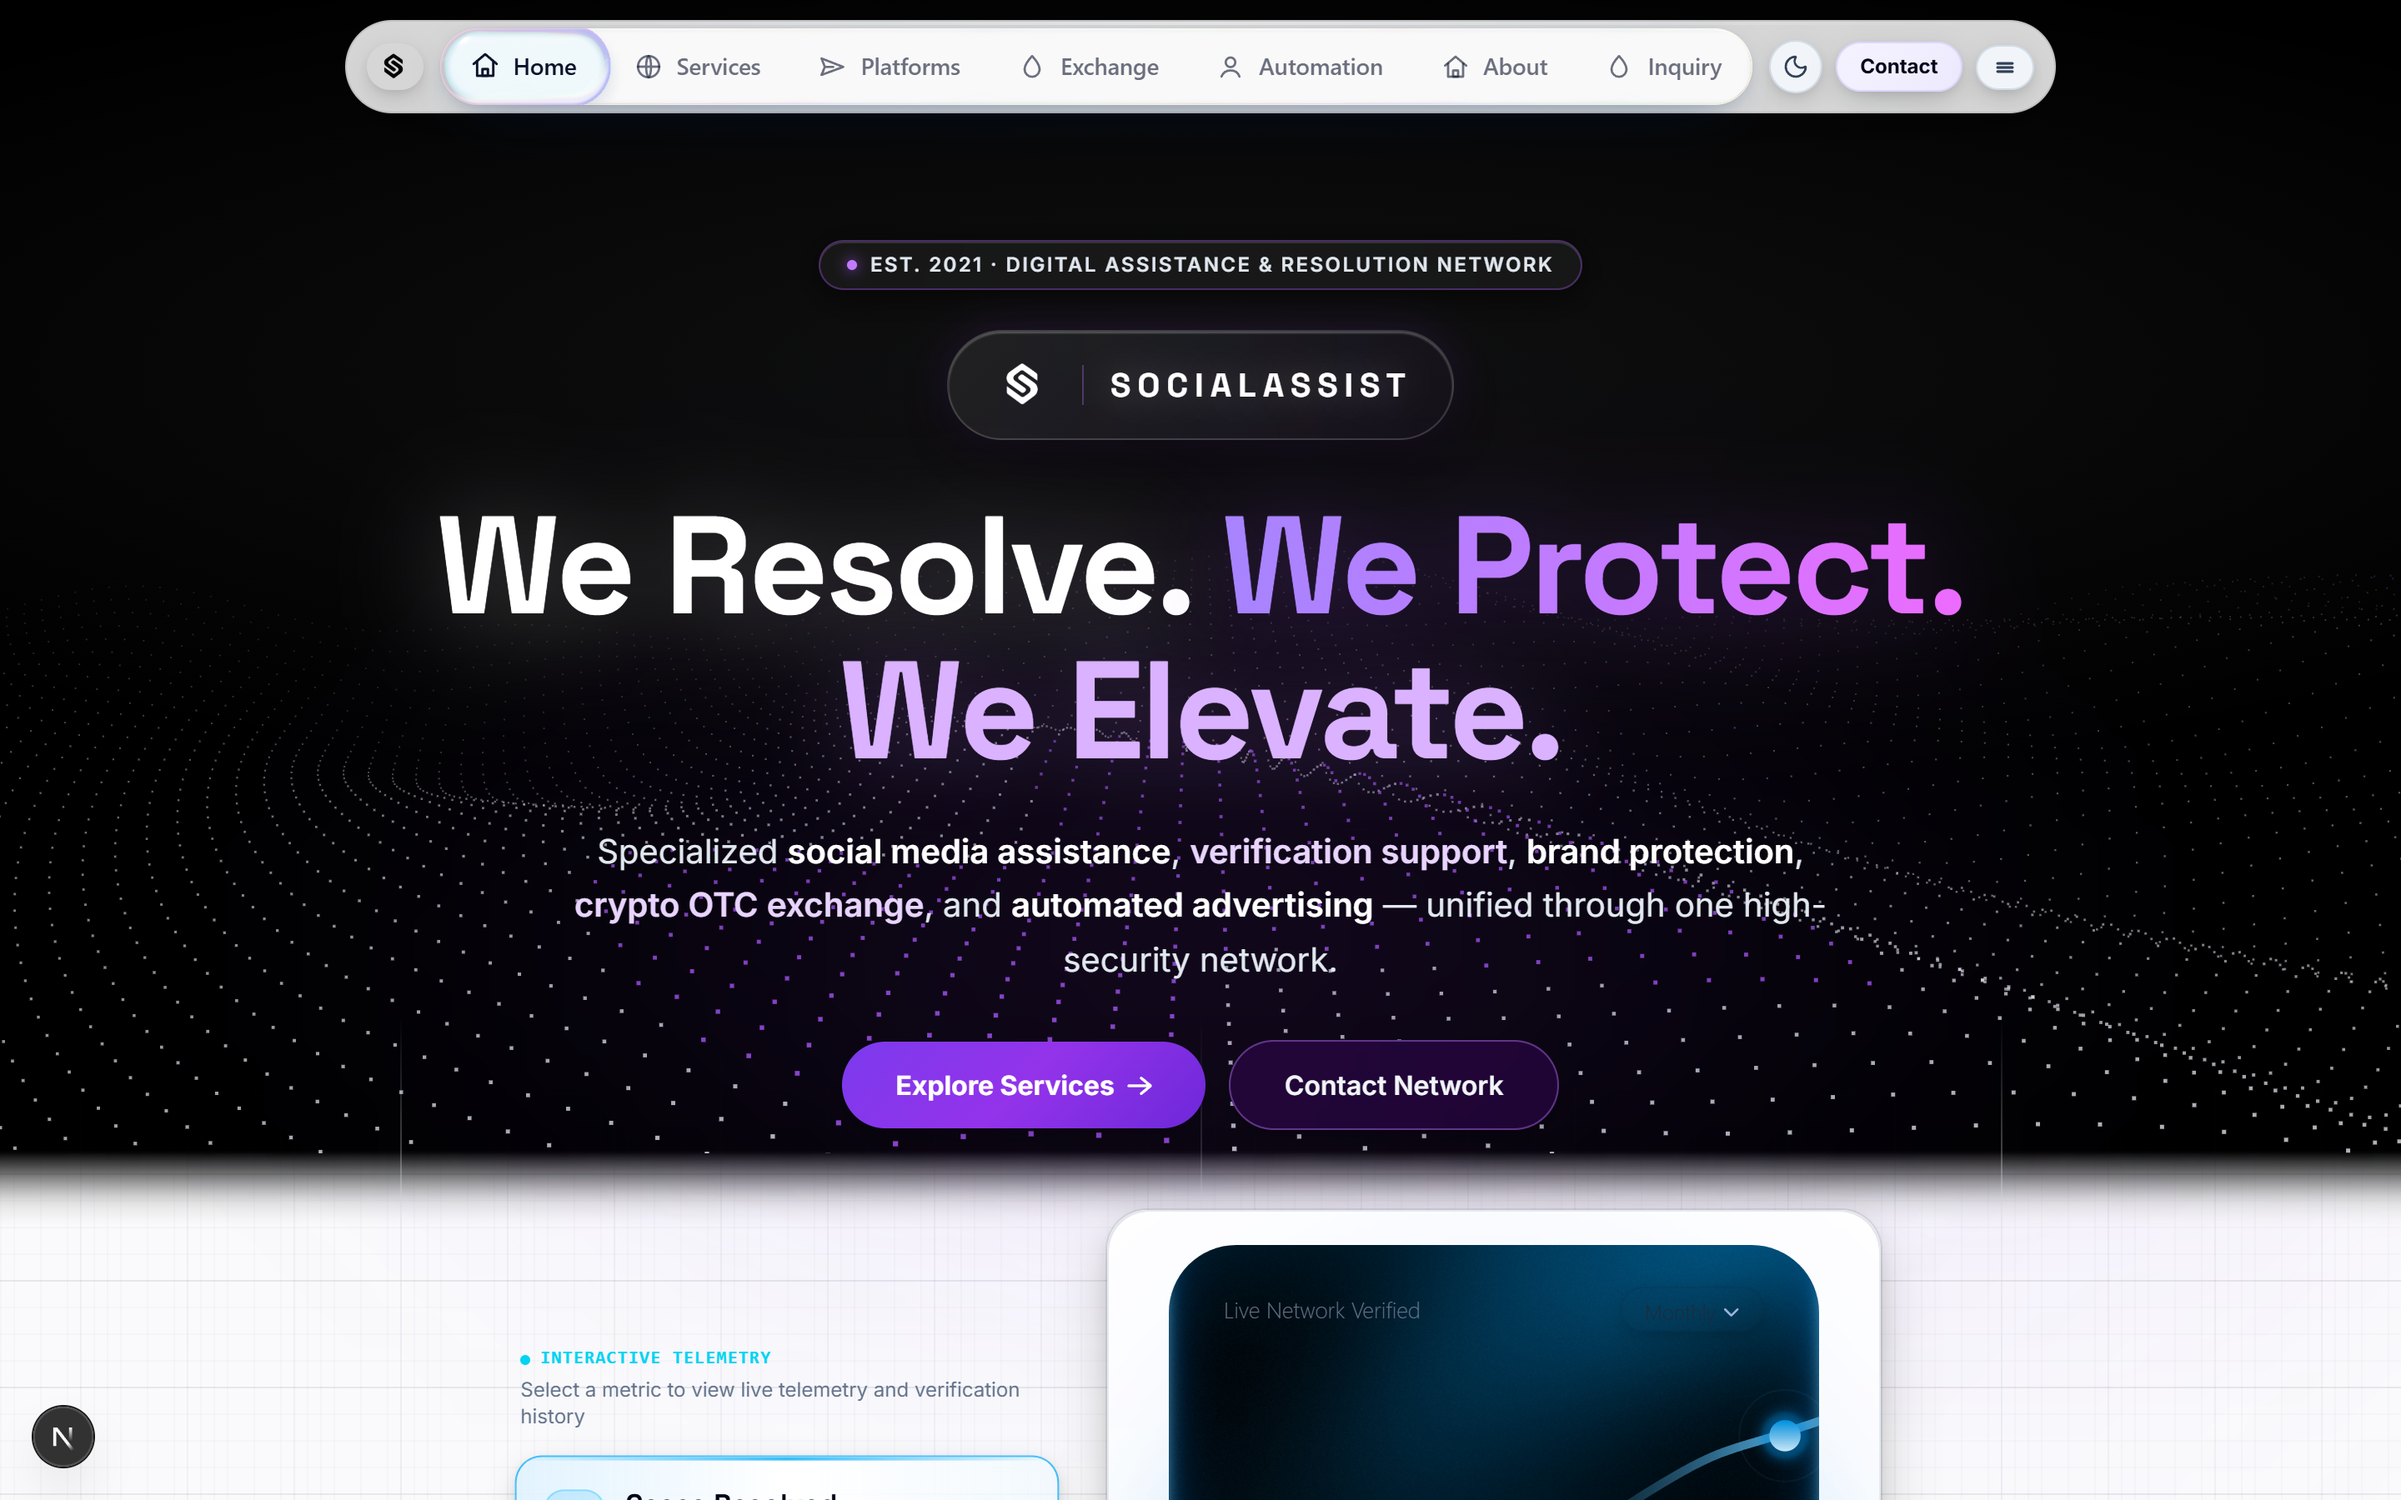
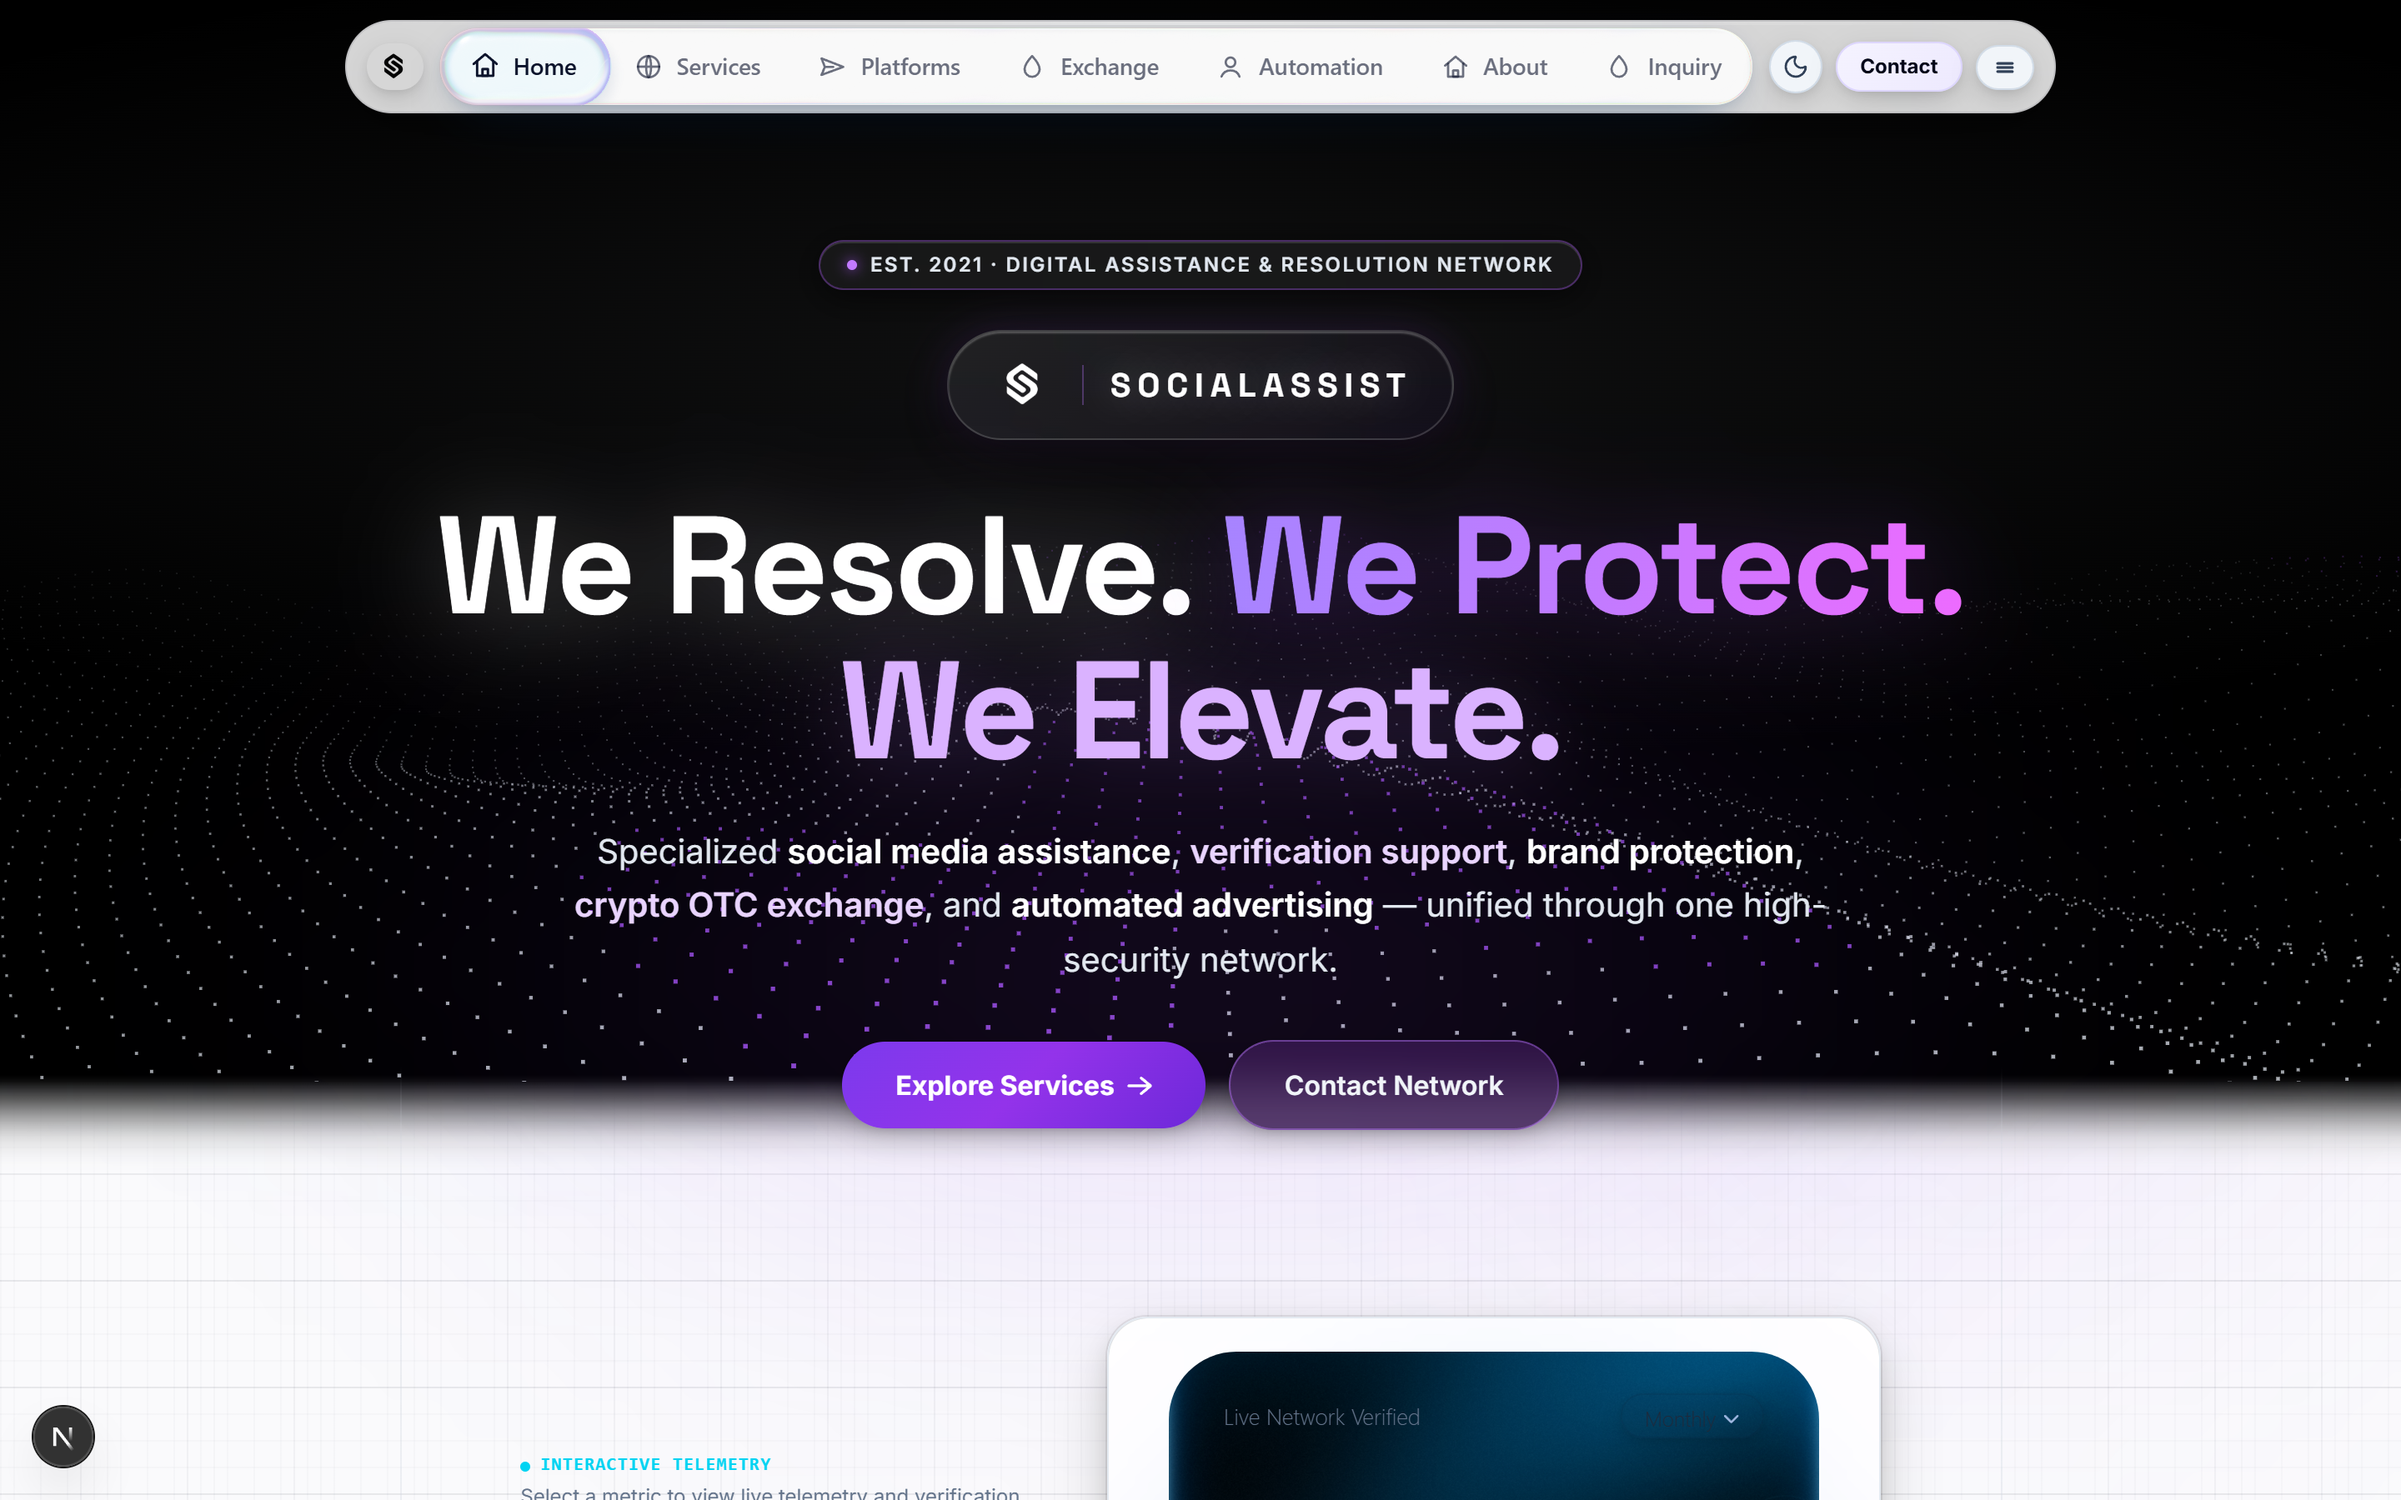
feat: increase spacing above stats section for a clean blurry transition into white

diff --git a/src/components/sections/HeroSection.tsx b/src/components/sections/HeroSection.tsx
@@ -32,15 +32,15 @@ export default function HeroSection() {
     >
       {/* ── Top Hero Wave Mesh (Pure Dark Black with Violet/Purple Accents) ── */}
       <div
-        className="absolute top-0 inset-x-0 h-[690px] sm:h-[720px] md:h-[740px] overflow-hidden pointer-events-auto z-0"
+        className="absolute top-0 inset-x-0 h-[660px] sm:h-[685px] md:h-[705px] overflow-hidden pointer-events-auto z-0"
         style={{
           background: "#000000",
           maskImage: isLight
-            ? "linear-gradient(to bottom, #000000 0%, #000000 calc(100% - 50px), rgba(0,0,0,0.5) calc(100% - 20px), transparent 100%)"
-            : "linear-gradient(to bottom, #000000 0%, #000000 calc(100% - 50px), rgba(0,0,0,0.5) calc(100% - 20px), transparent 100%)",
+            ? "linear-gradient(to bottom, #000000 0%, #000000 calc(100% - 60px), rgba(0,0,0,0.5) calc(100% - 24px), transparent 100%)"
+            : "linear-gradient(to bottom, #000000 0%, #000000 calc(100% - 60px), rgba(0,0,0,0.5) calc(100% - 24px), transparent 100%)",
           WebkitMaskImage: isLight
-            ? "linear-gradient(to bottom, #000000 0%, #000000 calc(100% - 50px), rgba(0,0,0,0.5) calc(100% - 20px), transparent 100%)"
-            : "linear-gradient(to bottom, #000000 0%, #000000 calc(100% - 50px), rgba(0,0,0,0.5) calc(100% - 20px), transparent 100%)",
+            ? "linear-gradient(to bottom, #000000 0%, #000000 calc(100% - 60px), rgba(0,0,0,0.5) calc(100% - 24px), transparent 100%)"
+            : "linear-gradient(to bottom, #000000 0%, #000000 calc(100% - 60px), rgba(0,0,0,0.5) calc(100% - 24px), transparent 100%)",
         }}
       >
         <WaveMesh
@@ -49,15 +49,15 @@ export default function HeroSection() {
           className="w-full h-full"
         />
 
-        {/* Very Small Blurry Merge Area into White (only ~48px tall right between buttons and graph box) */}
+        {/* Very Small Blurry Merge Area into White (compact ~56px strip) */}
         <div
-          className="absolute inset-x-0 bottom-0 h-12 pointer-events-none"
+          className="absolute inset-x-0 bottom-0 h-14 pointer-events-none"
           style={{
             background: isLight
-              ? "linear-gradient(to bottom, rgba(0,0,0,0) 0%, rgba(255,255,255,0.25) 25%, rgba(255,255,255,0.75) 60%, #ffffff 100%)"
+              ? "linear-gradient(to bottom, rgba(0,0,0,0) 0%, rgba(255,255,255,0.2) 20%, rgba(255,255,255,0.75) 60%, #ffffff 100%)"
               : "linear-gradient(to bottom, rgba(0,0,0,0) 0%, rgba(3,7,18,0.4) 30%, rgba(3,7,18,0.85) 70%, #030712 100%)",
-            backdropFilter: "blur(12px)",
-            WebkitBackdropFilter: "blur(12px)",
+            backdropFilter: "blur(14px)",
+            WebkitBackdropFilter: "blur(14px)",
           }}
         />
       </div>

diff --git a/src/components/HeroArchitecturalGrid.tsx b/src/components/HeroArchitecturalGrid.tsx
@@ -12,10 +12,10 @@ export default function HeroArchitecturalGrid() {
       className="absolute inset-0 pointer-events-none z-0 overflow-hidden"
       style={{
         maskImage: isLight
-          ? "linear-gradient(to bottom, transparent 0%, transparent 610px, rgba(0,0,0,0.5) 650px, rgba(0,0,0,1) 700px, rgba(0,0,0,0.5) 85%, transparent 100%)"
+          ? "linear-gradient(to bottom, transparent 0%, transparent 640px, rgba(0,0,0,0.5) 680px, rgba(0,0,0,1) 740px, rgba(0,0,0,0.5) 85%, transparent 100%)"
           : "linear-gradient(to bottom, rgba(0,0,0,1) 0%, rgba(0,0,0,0.65) 50%, rgba(0,0,0,0.15) 80%, transparent 100%)",
         WebkitMaskImage: isLight
-          ? "linear-gradient(to bottom, transparent 0%, transparent 610px, rgba(0,0,0,0.5) 650px, rgba(0,0,0,1) 700px, rgba(0,0,0,0.5) 85%, transparent 100%)"
+          ? "linear-gradient(to bottom, transparent 0%, transparent 640px, rgba(0,0,0,0.5) 680px, rgba(0,0,0,1) 740px, rgba(0,0,0,0.5) 85%, transparent 100%)"
           : "linear-gradient(to bottom, rgba(0,0,0,1) 0%, rgba(0,0,0,0.65) 50%, rgba(0,0,0,0.15) 80%, transparent 100%)",
       }}
     >

diff --git a/src/components/AnimatedStatistics.tsx b/src/components/AnimatedStatistics.tsx
@@ -157,7 +157,7 @@ export default function AnimatedStatistics() {
   return (
     <div
       ref={containerRef}
-      className="mt-12 w-full max-w-5xl mx-auto"
+      className="mt-20 sm:mt-24 md:mt-28 w-full max-w-5xl mx-auto"
       aria-label="Key Performance Statistics and Immersive Peak Chart"
     >
       {/* 
